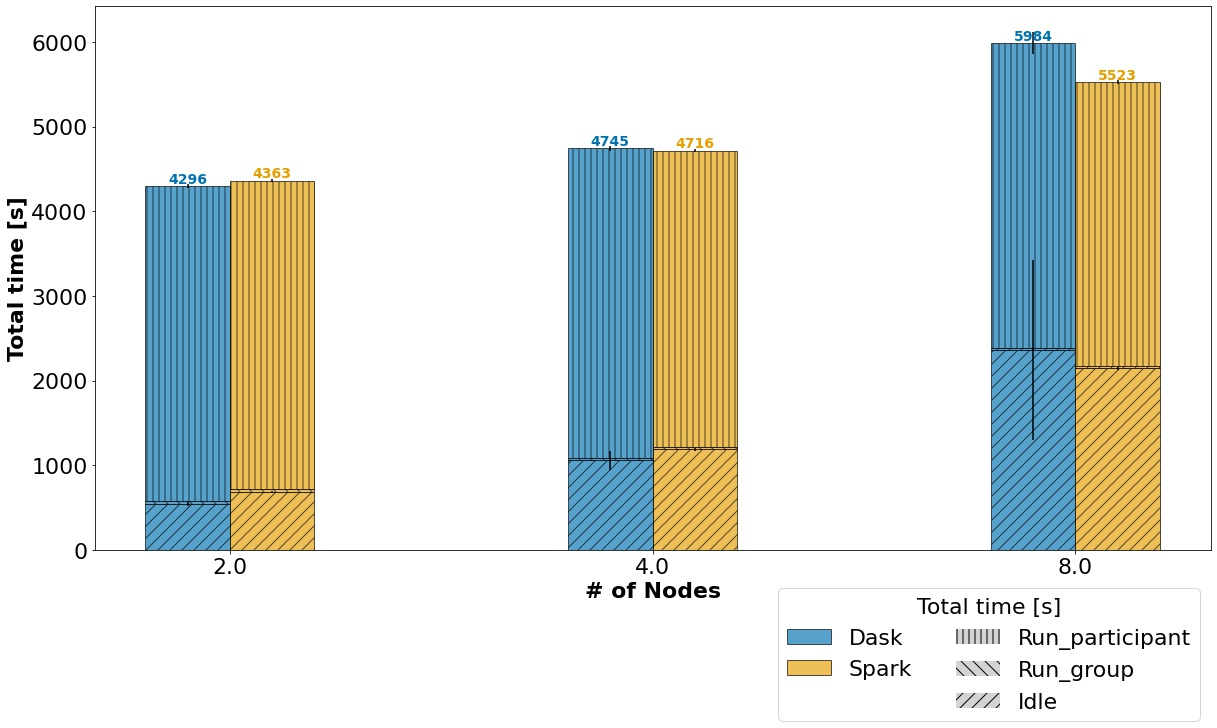
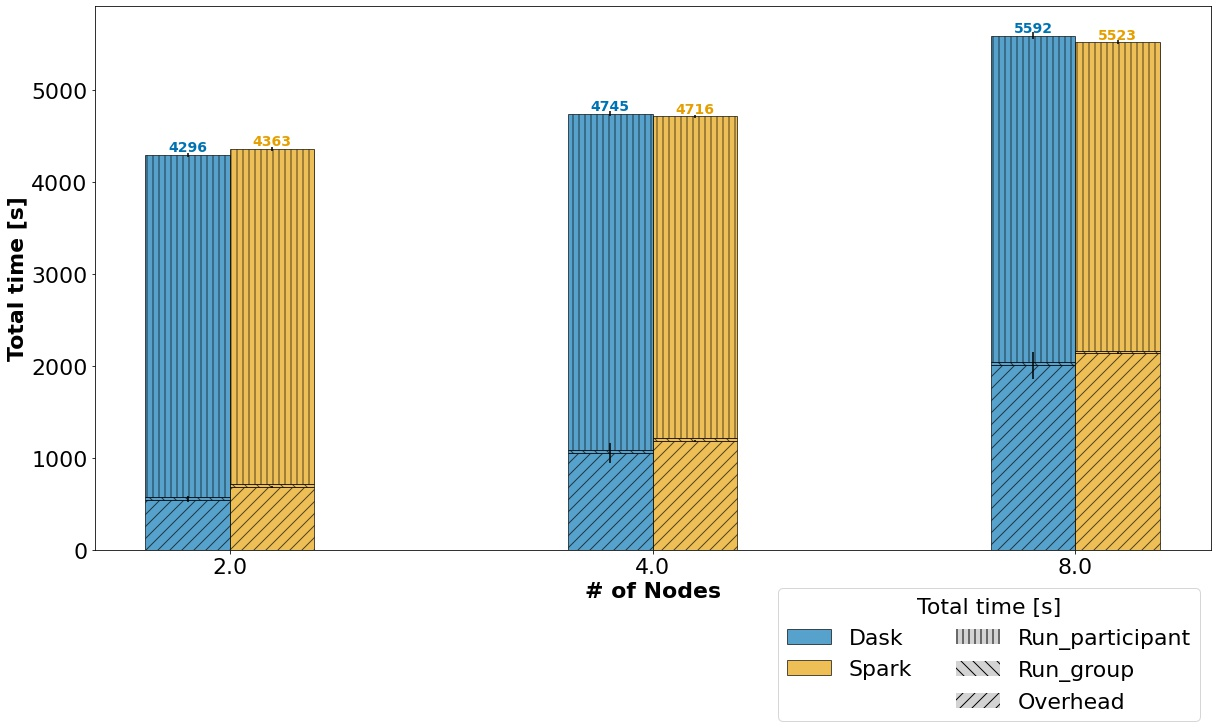
[UPDATE] paper to latest version.

diff --git a/latex/paper.tex b/latex/paper.tex
@@ -38,6 +38,24 @@
 
 \begin{abstract}
 	% TODO
+	In recent years, the joint increase in image resolution, data sharing and
+	study sizes in neuroimaging demands for Big Data strategies.
+	However, while several options are available, no particular engine emerged.
+	In this paper, we compare the runtime performance of two popular Big Data engines with
+	Python APIs, Apache Spark, and Dask, in processing neuroimaging pipelines.
+	Our experiments use three synthetic data-intensive applications to process
+	the \SI{606}{\gibi\byte} BigBrain image and an actual pipeline to process data
+	from thousands of anatomical images.
+	We benchmark these applications on a dedicated HPC cluster while using varying
+	combinations of the number of nodes, file size, and duration threshold for the pipelines.
+	Our results show that although there are slight differences between Dask and Spark,
+	the performance of the engines is comparable for data-intensive applications.
+	However, Spark requires more memory than Dask to execute, which can lead to 
+	slower runtime depending on configuration and infrastructure.
+	In general, the limiting factor was the data transfer time.
+	While both engines are suitable for neuroimaging, more efforts need to be put
+	to reduce the data transfer time and the memory footprint of applications.
+						
 \end{abstract}
 
 \begin{IEEEkeywords}
@@ -273,28 +291,25 @@ The computation to find the closest centroids for each voxels scales with the nu
 It can be computed in parallel at the cost of higher memory or sequentially to reduce memory usage.
 We decided to compute the nearest centroids in parallel since we use only three centroids.
 
-\subsubsection{BIDS App example}
-Our fifth application is the BIDS App example, a neuroimaging pipeline to
+\subsubsection{BIDS App Example}
+Our fifth application is the BIDS App Example, a neuroimaging pipeline to
 measure brain volume from MRIs. For this application, we use the CoRR
 dataset. The application extracts the brain volume of each participant,
 then computes the average for each group of participants. Unlike the other
-applications, the BIDS App example is a command-line executed in a Docker image
+applications, the BIDS App Example is a command-line executed in a Docker image
 (bids/example on DockerHub). We converted the Docker image to a Singularity
-image for use in HPC environments, \MD{Cite paper on the reason why this is
-done.} using
+image for use in HPC environments, using
 \href{https://hub.docker.com/r/singularityware/docker2singularity/tags/}{docker2singularity}
 		
 \subsection{Experiments}
 Table~\ref{table:parameters} shows the parameters that we varied
-throughout the experiments. We varied (1) the number of workers to assess
-the scalability of the engine scheduler, (2) the BigBrain
-block size in Increment, Multi-Increment, and Histogram to measure the
-effect of different I/O patterns and parallelization degrees, (3) the
-number of iterations to evaluate the effect of the number of tasks, and (4) the
-sleep delay to study the effect of task duration. \TG{these parameters don't seem to match the names used in Table I, they should be harmonized}
- It should be noted that
-increasing the number of iterations for a given sleep delay also increases
-the total compute time of an application.
+throughout the experiments. We varied (1) the number of nodes to assess
+the scalability of the engines' scheduler, (2) the number of files for the BigBrain
+in Increment, and Histogram to measure the
+effect of different I/O patterns and parallelization degrees, and (3) the
+number of iterations to evaluate the effect of the number of tasks.
+It should be noted that increasing the number of iterations for a given sleep 
+delay also increases the total compute time of an application.
 		
 To avoid potential external biases due to caching, background processes and,
 network load, we ran the applications in randomized order and cleared the
@@ -313,8 +328,8 @@ Summing those results gives the total overhead for the application.
 	\centering
 	\begin{tabular}{|l|c|c|c|c|c|}
 		\hline           & Increment & Histogram & Kmeans  & BIDS App Example \\\hline
-		\# of Nodes & \multicolumn{4}{c|}{2, 4, 8} \\\hline
 		Dataset size [\SI{}{\gibi\byte}] &\multicolumn{2}{c|}{606} & 303 & \multicolumn{1}{c|}{26.67} \\\hline
+		\# of Nodes & \multicolumn{4}{c|}{2, 4, 8} \\\hline
 		Number of file & \multicolumn{2}{c|}{1000, 2500, 5000} & - & \multicolumn{1}{c|}{3491} \\\hline
 		\# of Iterations & 1, 5, 25  & -         & 1, 3, 9 & -                \\\hline
 	\end{tabular}
@@ -323,8 +338,7 @@ Summing those results gives the total overhead for the application.
 \section{Results}
 \subsection{Increment}
 Figure \ref{fig:increment_worker} depicts the total execution time spent in each code segment of the \textit{Increment} application.
-The bars are broken down into Idle, Read, Write, and other application-specific functions. \TG{Add a sentence to explain what Idle is. Is it exactly the overhead mentioned previously? if
-so, I would just call it Overhead everywhere (in the figures and in the text)}
+The bars are broken down into Overhead, Read, Write, and other application-specific functions.
 The mean of each bar is calculated from ten repetitions, with the error bar representing the standard deviation.
 As expected, the compute time, from \textit{Increment}, remains the same when we vary the number of nodes.
 However, the \textit{Read} and \textit{Write} time increase with the number of nodes for both engines.
@@ -332,8 +346,8 @@ This is explained by an I/O bottleneck on the Lustre file system.
 		
 From Figure \ref{fig:increment_worker}, we also observe that Dask's overhead is higher than Spark's.
 While the overhead of both engines increases with the number of nodes, Dask's overhead is significantly worse when scaling.
-Although Dask has a higher overhead, the total time for both engines is similar; with a maximum makespan difference of \SI{7}{\second} for two nodes.
-This is due to a tradeoff between disk bandwidth and compute/idle time.
+Although Dask has a higher overhead, the total time for both engines is similar; with a maximum makespan difference of 2\% for two nodes.
+This is due to a tradeoff between disk bandwidth and compute/overhead time.
 On the one hand, multiple threads access Lustre concurrently, thus sharing the disk bandwidth resulting in longer I/O time.
 On the other hand, when most threads are either idle or performing computations, it reduces the contention on the disk bandwidth resulting in shorter I/O time.
 \begin{figure}[!t]
@@ -344,12 +358,12 @@ On the other hand, when most threads are either idle or performing computations,
 \end{figure}
 		
 Figure \ref{fig:increment_itr} shows the detailed execution time for the \textit{Increment} application while varying the number of iterations.
-As expected, the idle time for both engines increases with the number of iterations.
-However, idle time for Dask increases significantly faster than Spark, resulting in a \SI{38}{\second} makespan difference for 25 iterations.
+As expected, the overhead for both engines increases with the number of iterations.
+However, overhead for Dask increases significantly faster than Spark, resulting in a 7\% makespan difference for 25 iterations.
 		
-Figure \ref{fig:increment_itr} also shows that the total computation time increases as the total I/O time decreases.
+Figure \ref{fig:increment_itr} also shows that the the total I/O time decreases as total computation time increases.
 This is explained by an I/O bottleneck on the Lustre file system.
-When threads are busy with computations, they reduce the contention on Lustre, thus improving I/O speed for individual accesses \TG{but then read or write time should decrease, not computing time.}.
+When threads are busy with computations, it reduces the contention on Lustre, thus improving I/O speed for individual accesses.
 \begin{figure}[!t]
 	\centering
 	\includegraphics[clip,width=\columnwidth]{figures/stacked_increment_itr.jpg}
@@ -361,9 +375,9 @@ Figure \ref{fig:increment_block} shows an increase in \textit{Increment} time.
 This is because the application performs an incrementation for each file, thus increasing the computation time.
 Similarly to Figure \ref{fig:increment_itr}, increasing the total compute time of the application reduces the total I/O time.
 Again, this is explained by the I/O tradeoff between compute time and contention of disk bandwidth.
-		
-From Figure \ref{fig:increment_block} we also observe that Dask has significantly higher idle time than Spark.
-However, the total execution time of the application is similar due to the tradeoff between I/O and compute/idle time.
+
+From Figure \ref{fig:increment_block} we also observe that Dask has significantly higher overhead than Spark.
+However, the total execution time of the application is similar due to the tradeoff between I/O and compute/overhead time.
 \begin{figure}[!t]
 	\centering
 	\includegraphics[clip,width=\columnwidth]{figures/stacked_increment_block.jpg}
@@ -386,6 +400,7 @@ As with previous experiments, the overhead for Spark is less and scales better, 
 		
 Figure \ref{fig:histogram_block} shows the execution time for the \textit{Histogram} when varying the number of files.
 The results are similar to varying the number of nodes with Spark having faster compute time for \textit{Calculate\_histogram}.
+This results in a makespan difference of up to 3\%.
 \begin{figure}[!t]
 	\centering
 	\includegraphics[clip,width=\columnwidth]{figures/stacked_histogram_block.jpg}
@@ -395,12 +410,9 @@ The results are similar to varying the number of nodes with Spark having faster 
 
 \subsection{Kmeans}
 Figure \ref{fig:kmeans_worker} depicts the total execution time for the \textit{Kmeans} application when varying the number of workers.
-We observe that Dask is multifold faster than Spark.
-Specifically, Spark has much longer idle, \textit{get\_labels} and read time than Dask.
+We observe that Dask is multifold faster than Spark, resulting in a $1.79\times$ to $2.71\times$ lower makespan.
+Specifically, Spark has much longer overhead, \textit{get\_labels} and read time than Dask.
 This difference arises from Spark workers restarting due to lack of executor memory, leading to recomputation of tasks.
-
-% For Spark, we reduced the number of processes per node from 64 to 32 while keeping the memory the same and found similar execution times.
-% However, the Spark worker did not restart with a lower process count and no longer recomputed tasks \TG{removed this as it is discussed later more clearly}.
 
 For brevity we omitted the figure when varying the number of iterations as the results are similar to varying the number of workers.
 \begin{figure}[!t]
@@ -411,10 +423,11 @@ For brevity we omitted the figure when varying the number of iterations as the r
 \end{figure}
 
 \subsection{BIDS App Example}
-Figure \ref{fig:bids} shows the total execution time for the \textit{BIDS App example} application when varying the number of nodes.
-We observe that Dask has a significantly lower execution time than Spark, between 10\% to 15\%.
-The main difference comes from an increased amount of stagger tasks for Spark, thus increasing the idle time of the application.
-Moreover, although minimal, a shorter cluster deployment time for Dask reinforces the difference in idle time.
+Figure \ref{fig:bids} shows the total execution time for the \textit{BIDS App Example} application when varying the number of nodes.
+We observe that Dask has slightly lower overhead, thank Spark, although not significant.
+However, the makespan for Dask is between 7.5\% to 14.5\% lower than Spark.
+The main difference comes from an increased amount of stagger tasks for Spark, thus increasing the overhead of the application.
+Moreover, although minimal, a shorter cluster deployment time for Dask reinforces the difference in overhead time.
 As with other experiments, the I/O from Lustre affects the scaling of both engines as we increase the number of nodes.
 \begin{figure}[!t]
 	\centering
@@ -422,8 +435,6 @@ As with other experiments, the I/O from Lustre affects the scaling of both engin
 	\caption{BIDS App Example: varying nodes}
 	\label{fig:bids}
 \end{figure}
-		
-\TG{Could you add information about how the differences in total times translated into makespans, for each application? Either as sentences in the text or as an extra table.}
 
 \section{Discussion}
 \subsection{I/O bottleneck}
@@ -471,7 +482,7 @@ However, this was compensated by the overhead and data transfer tradeoff mention
 Since our focus is on data-intensive applications, we conclude that the performance of Dask and Spark is equivalent.
 
 The experiments from \cite{Mehta:17} found that Dask has a larger startup overhead than Spark, while another study \cite{8588652} found the opposite.
-We did not find significant differences in startup overhead between the engines in this study nor our previous study \cite{8943502}.
+In this study, we found that Dask has a lower startup overhead than Spark; however, we did not in our previous study \cite{8943502}.
 Those apparent contractions most likely come from differences in infrastructure and configuration of the engines.
 
 Our results from the Histogram experiments show that the Dask Bags API was slower than Spark.
